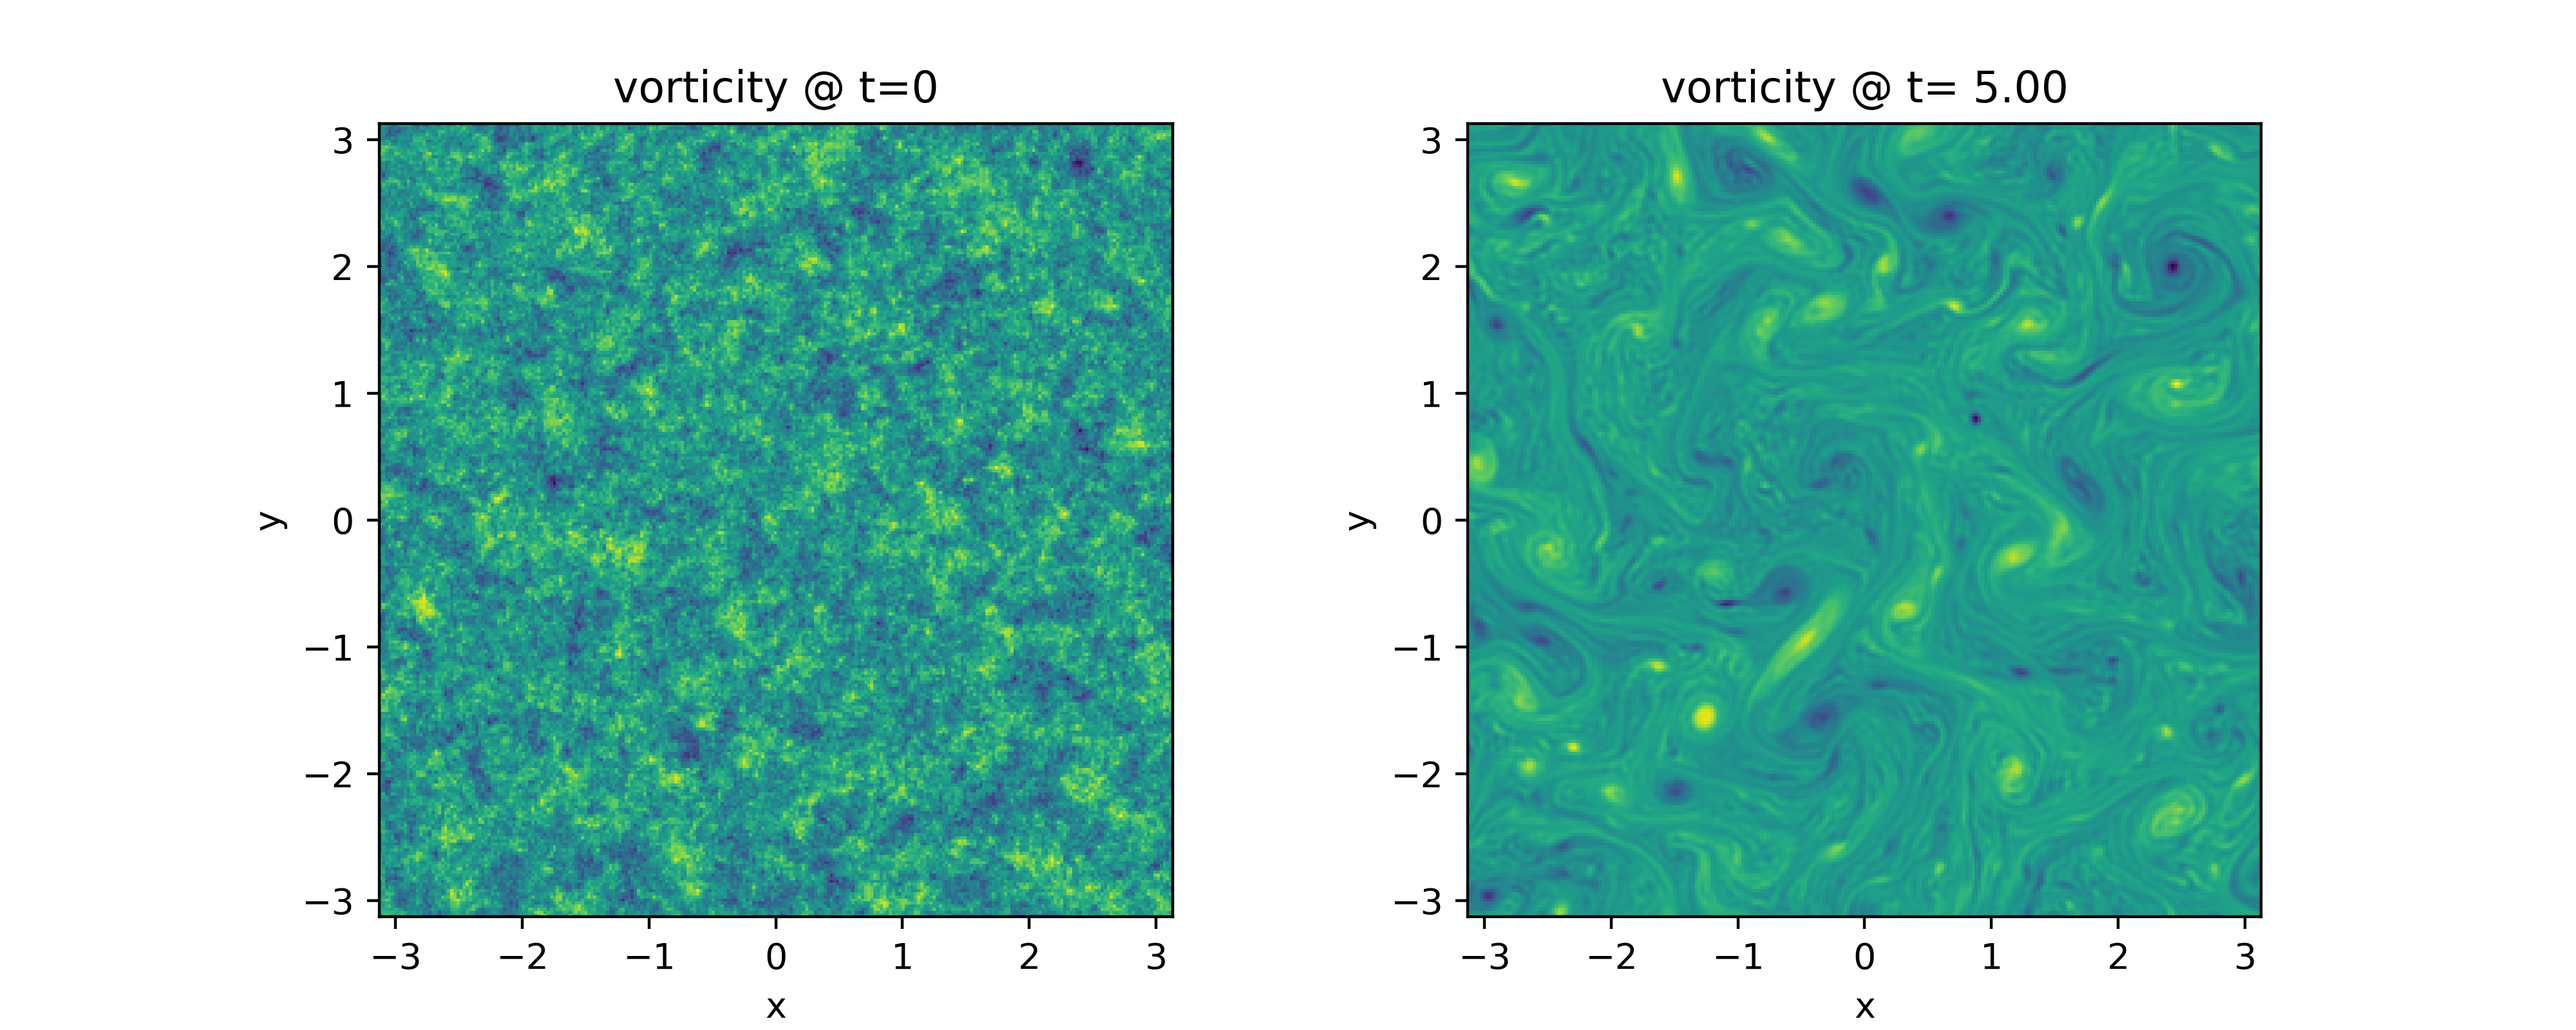
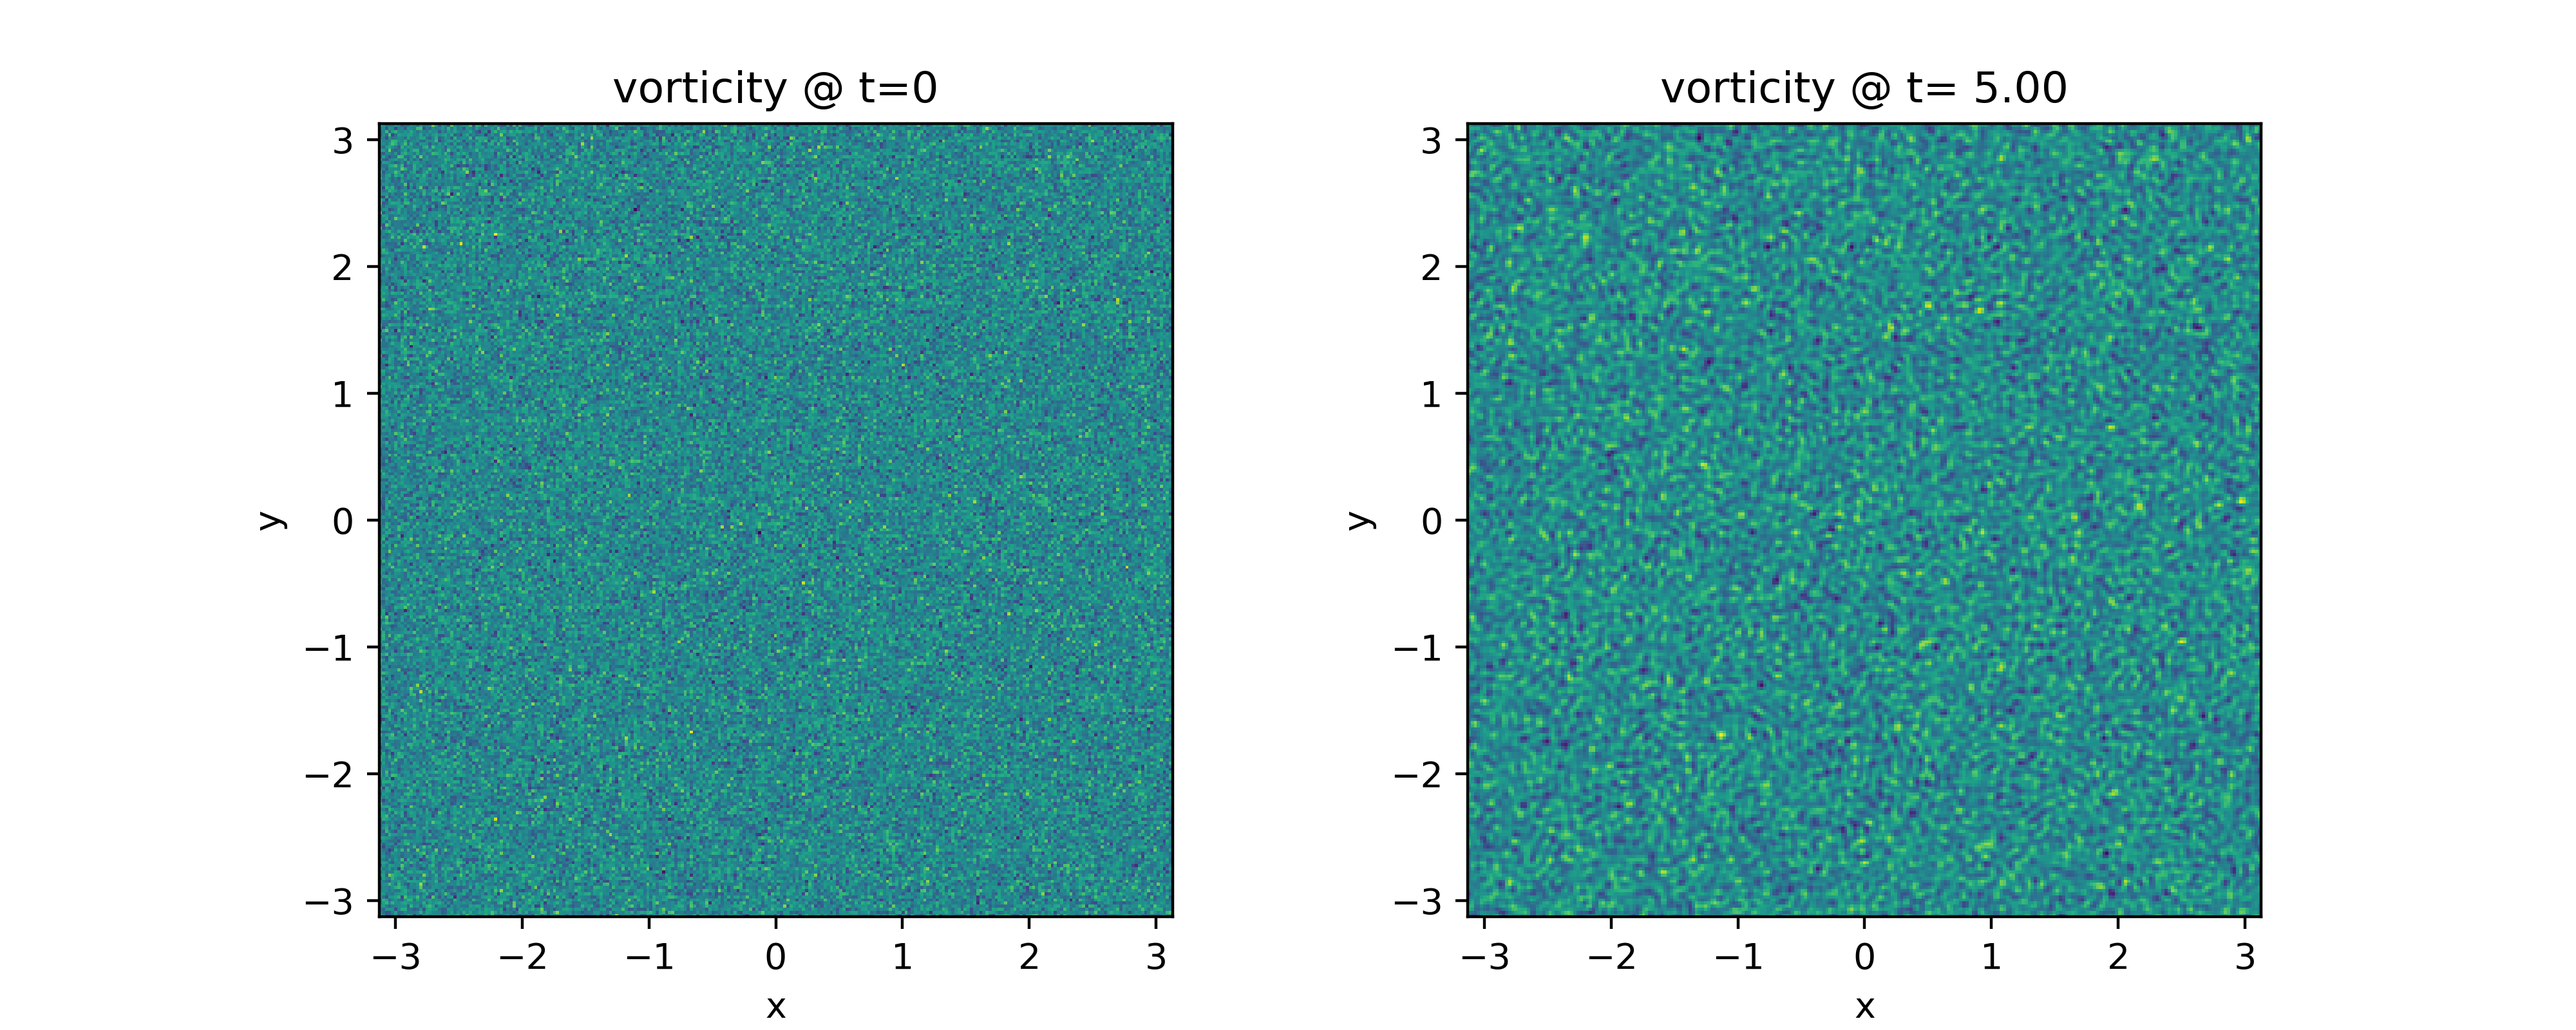
adds new plots

Changed region(s): [[0.125, 0.0625, 0.4688, 0.9062], [0.5625, 0.0625, 0.875, 0.9062], [0.25, 0.0625, 0.2812, 0.0938]]

diff --git a/matlab/matlab_decaying2Dturbulence.m b/matlab/matlab_decaying2Dturbulence.m
@@ -71,7 +71,7 @@ end
 % figure()
 % set(gcf,'units','inches','position',[3, 3, 10, 4])
 % subplot(1,2,1)
-% pcolor2(X, Y, real(ifft2(qh0)))
+% pcolor2(X, Y, q0)
 % set(gca, 'fontsize', 12, 'Box', 'on', 'layer', 'top')
 % xticks(-3:3); yticks(-3:3);
 % xlabel('$x$', 'fontsize', 16, 'Interpreter', 'latex')
@@ -87,4 +87,4 @@ end
 % title(['vorticity @ $t=' num2str(T(end)) '$'], 'fontsize', 16, 'Interpreter', 'latex')
 % axis square;
 % set(gcf,'PaperPositionMode','auto')
-% print(['matlab_n' num2str(nx) '.png'], '-dpng', '-r400'); 
+% print(['matlab_n' num2str(nx) '.png'], '-dpng', '-r400');
